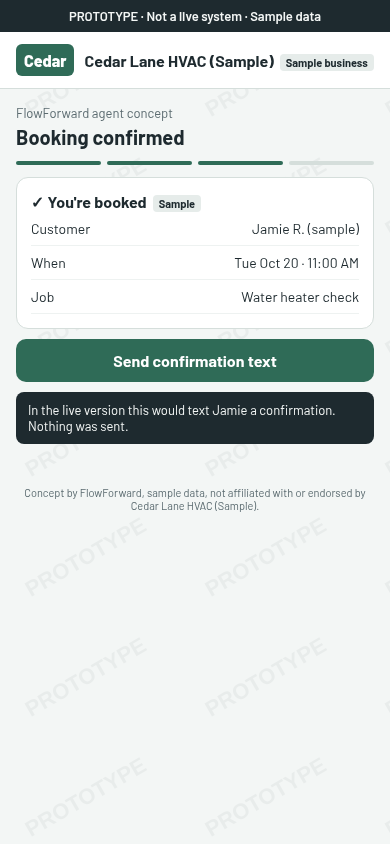
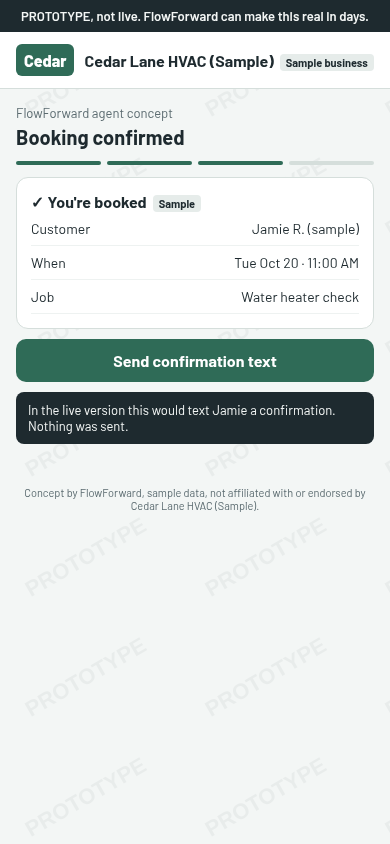
Design: update prototype ribbon to Summit-required wording

Changed region(s): [[0.0615, 0.0, 0.9538, 0.0308]]

diff --git a/docs/design/prototype-system.md b/docs/design/prototype-system.md
@@ -73,7 +73,7 @@ Mobile-first at **390px**, desktop at **1280px**. On desktop the flow sits in a 
 
 Rendered by `PrototypeWatermark` from the prototype shell, **outside theme/brand props**. Nothing gates it: `FF_PROTOTYPE_GALLERY` gates only the gallery, never the watermark.
 
-- **Ribbon:** "PROTOTYPE · Not a live system · Sample data". `position: sticky; top: 0`, min-height 32px, Barlow 600 at 13–14px, slate #1E2A2F background, paper #F3F6F5 text (never brand colors), `role="note"`, no close button.
+- **Ribbon:** exactly "PROTOTYPE, not live. FlowForward can make this real in days." (Summit-required wording; do not paraphrase). `position: sticky; top: 0`, min-height 32px and grows to fit up to two lines at 390px (padding 6px 12px, centered, line-height 1.3), Barlow 600 at 13–14px, slate #1E2A2F background, paper #F3F6F5 text (never brand colors), `role="note"`, no close button.
 - **Tiled pattern:** diagonal (−30°) "PROTOTYPE" SVG tile behind content at ~5% opacity (range 4–6%), `pointer-events: none`.
 - **Sample tags:** every fake datum (customer, amount, phone, business) carries a "Sample" tag or a "(sample)" suffix. Phone numbers use the 555-01xx range.
 - **Footer:** "Concept by FlowForward, sample data, not affiliated with or endorsed by <Business>."
